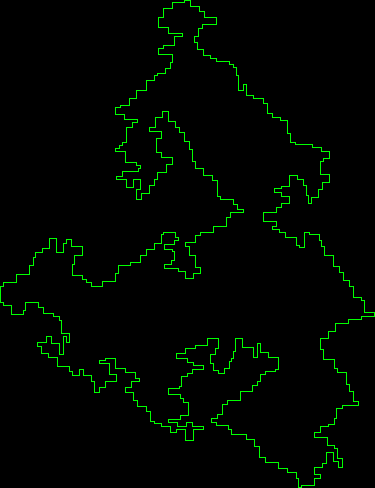
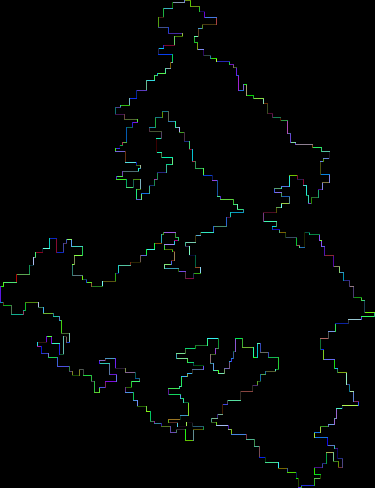
Colored border.

diff --git a/src/main/java/com/simongarton/adventofcode/year2023/Year2023Day18.java b/src/main/java/com/simongarton/adventofcode/year2023/Year2023Day18.java
@@ -18,6 +18,7 @@ import static java.awt.image.BufferedImage.TYPE_INT_RGB;
 public class Year2023Day18 extends AdventOfCodeChallenge {
 
     private List<Hole> diggings;
+    private Map<String, Hole> diggingsMap;
     private int x;
     private int y;
 
@@ -56,15 +57,19 @@ public class Year2023Day18 extends AdventOfCodeChallenge {
         // I need to find a start coordinate based on my map ... not sure how to.
 
         this.diggings = new ArrayList<>();
+        this.diggingsMap = new HashMap<>();
         this.digHoles(input);
         this.buildMap();
         this.paintMap("holey-moley-before.png");
 
         // sample
 //        this.floodFillRecursively(1, 1);
-        // real
+        // real - does not work
 //        this.floodFillRecursively(188, 1);
 
+        // sample - does not work ?
+//        this.floodFill(Coord.builder().x(2).y(1).build());
+        // real
         this.floodFill(Coord.builder().x(1).y(-100).build());
         this.paintMap("holey-moley-filled.png");
 
@@ -90,7 +95,14 @@ public class Year2023Day18 extends AdventOfCodeChallenge {
             for (int col = 0; col < this.width; col++) {
                 final String floor = this.getRawFloor(col, row);
                 if (floor.equalsIgnoreCase("#")) {
-                    graphics2D.setPaint(Color.GREEN);
+                    final Coord reverseCoord = this.reverseTranslateCoord(Coord.builder().x(col).y(row).build());
+                    final Hole hole = this.diggingsMap.get(this.getCoordKey(reverseCoord));
+                    if (hole == null) {
+                        graphics2D.setPaint(Color.GREEN);
+                    } else {
+//                        graphics2D.setPaint(Color.BLUE);
+                        graphics2D.setPaint(Color.decode(hole.getColor()));
+                    }
                     graphics2D.fillRect(col, row, 1, 1);
                 }
             }
@@ -142,7 +154,6 @@ public class Year2023Day18 extends AdventOfCodeChallenge {
         if ((y + 1) <= this.depth) {
             this.floodFillRecursively(x, y + 1);
         }
-        this.paintMap("holey-moley-partial.png");
         if (this.iteration++ % 10 == 0) {
             this.paintMap("holey-moley-partial.png");
         }
@@ -162,9 +173,9 @@ public class Year2023Day18 extends AdventOfCodeChallenge {
             coordsToCheck.addAll(neighbours);
             coordsToCheckKeys.addAll(neighbours.stream().map(this::getCoordKey).collect(Collectors.toList()));
             iteration++;
-            if (iteration % 10000 == 0) {
-                this.paintMap("holey-moley-partial-" + iteration + ".png");
-            }
+//            if (iteration % 10000 == 0) {
+//                this.paintMap("holey-moley-partial-" + iteration + ".png");
+//            }
         }
     }
 
@@ -300,6 +311,13 @@ public class Year2023Day18 extends AdventOfCodeChallenge {
                 .build();
     }
 
+    private Coord reverseTranslateCoord(final Coord coord) {
+        return Coord.builder()
+                .x(coord.getX() + this.minX)
+                .y(coord.getY() + this.minY)
+                .build();
+    }
+
     private String replaceCharacter(final String original, final Integer index, final String replacement) {
 
         return original.substring(0, index) + replacement + original.substring(index + 1);
@@ -354,6 +372,7 @@ public class Year2023Day18 extends AdventOfCodeChallenge {
                 .color(color)
                 .build();
         this.diggings.add(hole);
+        this.diggingsMap.put(this.getCoordKey(coord), hole);
         this.x = hole.getCoord().getX();
         this.y = hole.getCoord().getY();
     }
